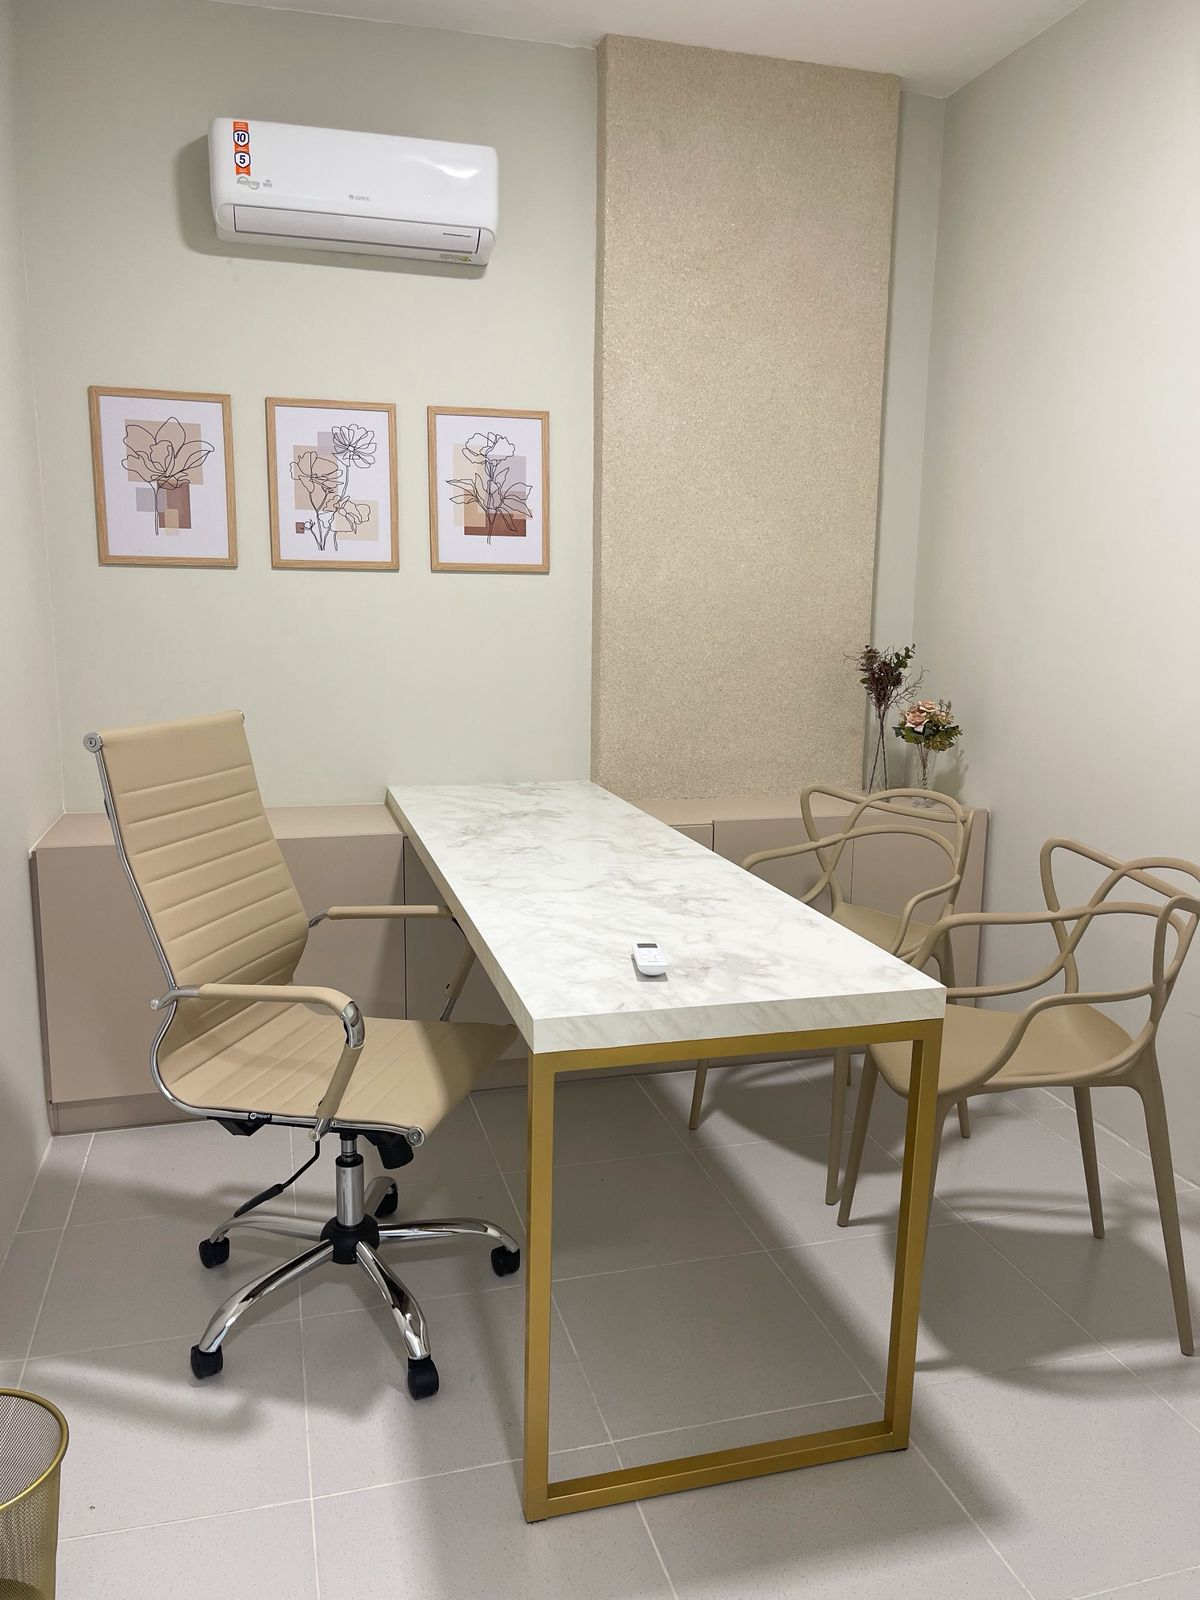
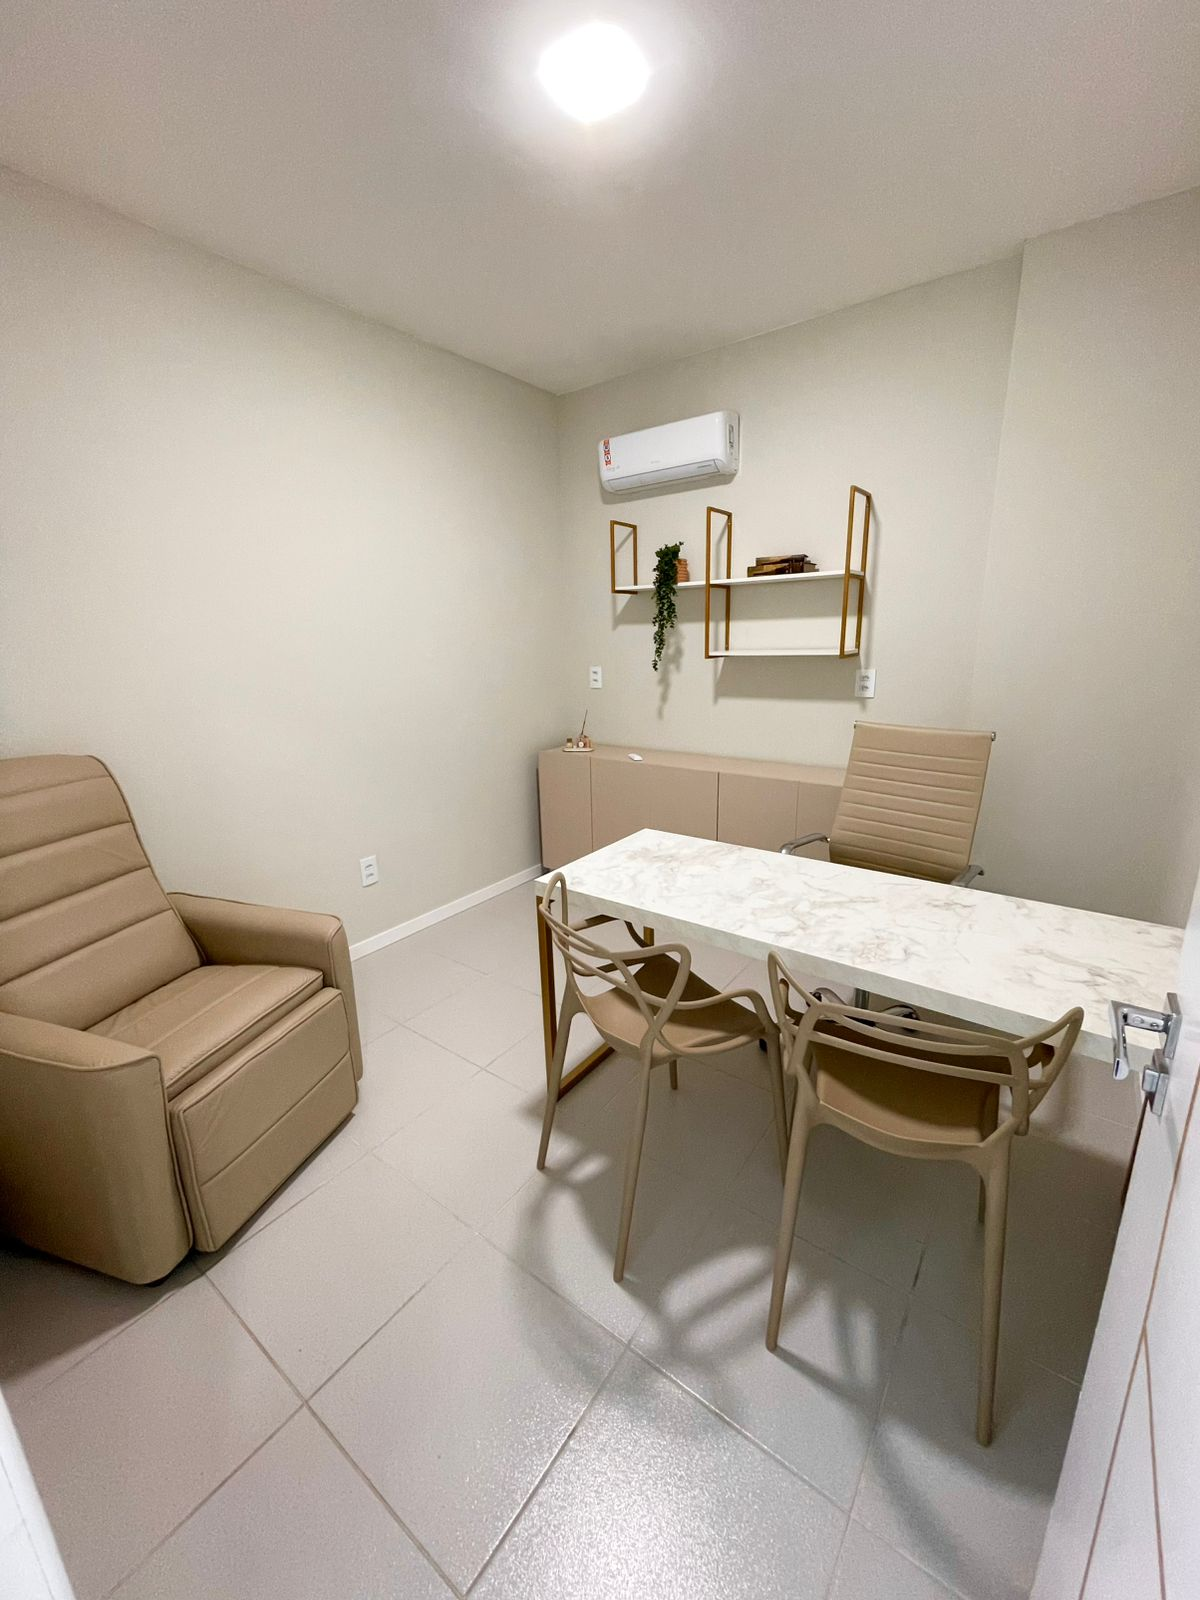
feat(site): rename coworking-space page to espaco-salto-alto
Replace coworking-space view with espaco-salto-alto, add redirect from old URL, update header nav label, and refresh related images.

diff --git a/views/site/espaco-salto-alto.php b/views/site/espaco-salto-alto.php
@@ -1,7 +1,7 @@
 <!DOCTYPE html>
 <html lang="pt-BR">
 	<head>
-		<title>Coworking Space | Canal Salto Alto</title>
+		<title>Espaço Salto Alto | Canal Salto Alto</title>
 		<meta charset="utf-8">
     	<meta name="viewport" content="width=device-width, initial-scale=1, shrink-to-fit=no">
 		<link rel="stylesheet" href="<?=PATH?>assets/css/styles.css?<?=uniqid()?>" />
@@ -16,20 +16,15 @@
 			<div class="container-xl">
 				<div class="row align-items-center">
 					<div class="col-md-6">
-						<h1 class="mb-4" style="font-weight: bold">Coworking Space em Linhares para Mulheres Empreendedoras</h1>
-						<p>Está à procura de um Coworking Space em Linhares, ES, que atenda às suas necessidades como mulher empreendedora? O Canal Salto Alto oferece <strong>a melhor opção para você!</strong></p>
+						<h1 class="mb-4" style="font-weight: bold">Espaço integrado em Linhares para Mulheres Empreendedoras</h1>
+						<p>Está à procura de uma sala para alugar em Linhares, ES, que atenda às suas necessidades como mulher empreendedora? O Canal Salto Alto oferece <strong>a melhor opção para você!</strong></p>
 						<p>Somos a comunidade de empreendedoras mais completa e inovadora do Espírito Santo, e agora temos um espaço colaborativo <strong>no coração do bairro Três Barras</strong>, um dos mais desejados de Linhares.</p>
 						<p style="color: #E54C8E;" class="d-flex flex-column align-items-start">
 							<span class="mb-3" style="
 							padding: 5px 10px;
 							border: solid 1px #E54C8E;
 							border-radius: 100px;
-						"><i class="fa-solid fa-tag"></i> Planos Flexíveis a partir de R$ 50,00 e Planos Fixos a partir de R$ 630,00</span>
-							<span style="
-							padding: 5px 10px;
-							border: solid 1px #E54C8E;
-							border-radius: 100px;
-						"><i class="fa-solid fa-ticket"></i> Empreendedoras membros tem 10% de Desconto!</span>
+						"><i class="fa-solid fa-tag"></i> Planos a partir de R$ 110,00 e Planos Mensais a partir de R$ 400,00</span>
 						</p>
 						<a href="https://api.whatsapp.com/send?phone=5527996959895&text=Ol%C3%A1,%20vim%20pelo%20site" target="_blank"><button class="btn btn-rose-light btn-rounded"><i class="fa-brands fa-whatsapp me-2"></i> Fale no WhatsApp</button></a>
 					</div>
@@ -44,8 +39,8 @@
 			<div class="container-xl">
 				<div class="text-center">
 					<p><span style="color: var(--primary-color)">SALAS COMERCIAIS EM LINHARES</span></p>
-					<h2>O Que o Coworking Space do Canal Salto Alto Oferece?</h2>
-					<p style="width: 100%;max-width: 700px;margin:0 auto; color: #888;" class="">Nosso coworking foi pensado especialmente para atender empreendedoras que precisam de um ambiente profissional, acolhedor e funcional.</p>
+					<h2>O Que o Espaço Integrado do Canal Salto Alto Oferece?</h2>
+					<p style="width: 100%;max-width: 700px;margin:0 auto; color: #888;" class="">Nosso espaço integrado foi pensado especialmente para atender empreendedoras que precisam de um ambiente profissional, acolhedor e funcional.</p>
 
 
 					<div class="row text-start mt-5">
@@ -111,107 +106,136 @@
 			<div class="container-xl text-center">
 				<h2>Nossos Planos</h2>
 				<p style="margin: 0 auto;max-width: 100%; width: 600px; color: #888">Escolha o plano que melhor se adapta às suas necessidades e comece a trabalhar no ambiente perfeito para empreendedoras.</p>
-				<p style="margin: 0 auto;max-width: 100%; width: 600px; color: #888;font-style: italic;">OUTROS TIPOS DE PLANOS SÃO NEGOCIADOS INDIVIDUALMENTE.</p>
+				
 				<div class="mt-5">
-					<h3 class="fs-3 font-weight-bold mb-4">Planos Flexíveis</h3>
+					<h3 class="fs-3 font-weight-bold mb-2">Planos Período da Manhã</h3>
+					<p class="mb-4" style="color: #888;">(8h às 11h30)</p>
 					<div class="row g-3 mb-5 justify-content-center">
-						<div class="col-12 col-md-3">
-							<div class="mb-4 bg-light p-4 box-gradient-gray h-100">
-								<h4 class="color-secondary fs-5"><strong style="font-weight: 900;">1 HORA</strong></h4>
-								<p><span class="fs-3 color-primary fw-bold">R$ 50,00</span> <small style="color:#888;display:block">para membros</small></p>
-								<p><span class="fs-5 color-secondary">R$ 55,00</span> <small style="color:#888;display:block">para não membros</small></p>
+						<div class="col-12 col-md">
+							<div class="mb-4 bg-light p-4 box-gradient-gray h-100 rounded shadow-sm">
+								<h4 class="color-secondary fs-6"><strong style="font-weight: 900;">PLANO 1</strong></h4>
+								<p class="mb-1"><small>1 dia por semana</small></p>
+								<p><span class="fs-4 color-primary fw-bold">R$ 400,00</span> <small style="color:#888;display:block">mensais</small></p>
+								<p><small class="color-primary">~4 atendimentos</small></p>
 							</div>
 						</div>
-						<div class="col-12 col-md-3">
-							<div class="mb-4 bg-light p-4 box-gradient-gray h-100">
-								<h4 class="color-secondary fs-5"><strong style="font-weight: 900;">MEIO PERÍODO</strong></h4>
-								<p class="text-center" style="color: #888"><small>(5 horas corridas)</small></p>
-								<p><span class="fs-3 color-primary fw-bold">R$ 108,00</span> <small style="color:#888;display:block">para membros</small></p>
-								<p><span class="fs-5 color-secondary">R$ 120,00</span> <small style="color:#888;display:block">para não membros</small></p>
+						<div class="col-12 col-md">
+							<div class="mb-4 bg-light p-4 box-gradient-gray h-100 rounded shadow-sm">
+								<h4 class="color-secondary fs-6"><strong style="font-weight: 900;">PLANO 2</strong></h4>
+								<p class="mb-1"><small>2 dias por semana</small></p>
+								<p><span class="fs-4 color-primary fw-bold">R$ 600,00</span> <small style="color:#888;display:block">mensais</small></p>
+								<p><small class="color-primary">~8 atendimentos</small></p>
 							</div>
 						</div>
-						<div class="col-12 col-md-3">
-							<div class="mb-4 bg-light p-4 box-gradient-gray h-100">
-								<div style="margin-top: -40px;margin-bottom: 10px">
-									<div class="bg-primary  text-white px-4 py-1 rounded-full text-sm font-semibold gap-1" style="border-radius: 200px;display: inline-flex;align-items: center;justify-content: center;">
-										<svg xmlns="http://www.w3.org/2000/svg" width="24" height="24" viewBox="0 0 24 24" fill="none" stroke="currentColor" stroke-width="2" stroke-linecap="round" stroke-linejoin="round" class="lucide lucide-star w-4 h-4" data-lov-id="src/components/Pricing.tsx:87:22" data-lov-name="Star" data-component-path="src/components/Pricing.tsx" data-component-line="87" data-component-file="Pricing.tsx" data-component-name="Star" data-component-content="%7B%22className%22%3A%22w-4%20h-4%22%7D"><path d="M11.525 2.295a.53.53 0 0 1 .95 0l2.31 4.679a2.123 2.123 0 0 0 1.595 1.16l5.166.756a.53.53 0 0 1 .294.904l-3.736 3.638a2.123 2.123 0 0 0-.611 1.878l.882 5.14a.53.53 0 0 1-.771.56l-4.618-2.428a2.122 2.122 0 0 0-1.973 0L6.396 21.01a.53.53 0 0 1-.77-.56l.881-5.139a2.122 2.122 0 0 0-.611-1.879L2.16 9.795a.53.53 0 0 1 .294-.906l5.165-.755a2.122 2.122 0 0 0 1.597-1.16z"></path></svg>
-										Mais Popular
-									</div>
-								</div>
-								<h4 class="color-secondary fs-5"><strong style="font-weight: 900;">DIÁRIA</strong></h4>
-								<p class="text-center" style="color: #888"><small>(10 horas corridas)</small></p>
-								
-								<p><span class="fs-3 color-primary fw-bold">R$ 180,00</span> <small style="color:#888;display:block">para membros</small></p>
-								<p><span class="fs-5 color-secondary">R$ 200,00</span> <small style="color:#888;display:block">para não membros</small></p>
+						<div class="col-12 col-md">
+							<div class="mb-4 bg-light p-4 box-gradient-gray h-100 rounded shadow-sm">
+								<h4 class="color-secondary fs-6"><strong style="font-weight: 900;">PLANO 3</strong></h4>
+								<p class="mb-1"><small>3 dias por semana</small></p>
+								<p><span class="fs-4 color-primary fw-bold">R$ 800,00</span> <small style="color:#888;display:block">mensais</small></p>
+								<p><small class="color-primary">~12 atendimentos</small></p>
 							</div>
 						</div>
-						<div class="col-12 col-md-3">
-							<div class="mb-4 bg-light p-4 box-gradient-gray h-100">
-								<h4 class="color-secondary fs-5"><strong style="font-weight: 900;">SÁBADO</strong></h4>
-								<p class="text-center" style="color: #888"><small>(Pacote de 4 horas corridas)</small></p>
-								<p><span class="fs-3 color-primary fw-bold">R$ 108,00</span> <small style="color:#888;display:block">para membros</small></p>
-								<p><span class="fs-5 color-secondary">R$ 120,00</span> <small style="color:#888;display:block">para não membros</small></p>
+						<div class="col-12 col-md">
+							<div class="mb-4 bg-light p-4 box-gradient-gray h-100 rounded shadow-sm">
+								<h4 class="color-secondary fs-6"><strong style="font-weight: 900;">PLANO 4</strong></h4>
+								<p class="mb-1"><small>4 dias por semana</small></p>
+								<p><span class="fs-4 color-primary fw-bold">R$ 1.000,00</span> <small style="color:#888;display:block">mensais</small></p>
+								<p><small class="color-primary">~16 atendimentos</small></p>
 							</div>
 						</div>
-						<p class="mt-3"><a href="https://api.whatsapp.com/send?phone=5527996959895&text=Ol%C3%A1,%20vim%20pelo%20site" target="_blank"><button class="btn btn-rose-light btn-rounded"><i class="fa-brands fa-whatsapp me-2"></i> Fale com a gente no WhatsApp</button></a></p>
+						<div class="col-12 col-md">
+							<div class="mb-4 bg-light p-4 box-gradient-gray h-100 rounded shadow-sm border border-primary">
+								<h4 class="color-secondary fs-6"><strong style="font-weight: 900;">PLANO 5</strong></h4>
+								<p class="mb-1"><small>5 dias por semana</small></p>
+								<p><span class="fs-4 color-primary fw-bold">R$ 1.200,00</span> <small style="color:#888;display:block">mensais</small></p>
+								<p><small class="color-primary">~20 atendimentos</small></p>
+								<hr>
+								<p class="mb-0"><small><strong>SALA EXCLUSIVA PELA MANHÃ</strong></small></p>
+								<p><small>Tenha uma sala para chamar de sua!</small></p>
+							</div>
+						</div>
 					</div>
 				</div>
 
-				<div>
-					<h3 class="fs-3">Planos Fixos</h3>
-					<p style="color: #888;">(Contrato mínimo de 6 meses)</p>
-					<div class="row g-3 justify-content-center">
-						<div class="col-md-4">
-							<div class="mb-4 rounded shadow-sm p-4 box-gradient-gray h-100">
-								<h4 class="color-secondary fs-5"><strong style="font-weight: 900;">PLANO 1</strong></h4>
-								<p><span class="fs-3 color-primary fw-bold">R$ 630,00</span> <small style="color:#888;display:block">para membros</small></p>
-								<p><span class="fs-5 color-secondary">R$ 700,00</span> <small style="color:#888;display:block">para não membros</small></p>
-								<p><small>1 dia por semana ou 2 meios períodos por semana</small></p>
-								<p><small class="color-primary">~40h/mês</small></p>
+				<div class="mt-5">
+					<h3 class="fs-3 font-weight-bold mb-2">Planos Período da Tarde</h3>
+					<p class="mb-4" style="color: #888;">(13h às 18h)</p>
+					<div class="row g-3 mb-5 justify-content-center">
+						<div class="col-12 col-md">
+							<div class="mb-4 bg-light p-4 box-gradient-gray h-100 rounded shadow-sm">
+								<h4 class="color-secondary fs-6"><strong style="font-weight: 900;">PLANO 1</strong></h4>
+								<p class="mb-1"><small>1 dia por semana</small></p>
+								<p><span class="fs-4 color-primary fw-bold">R$ 450,00</span> <small style="color:#888;display:block">mensais</small></p>
+								<p><small class="color-primary">~4 atendimentos</small></p>
 							</div>
 						</div>
-						<div class="col-md-4">
-							<div class="mb-4 rounded shadow-sm p-4 box-gradient-gray h-100">
-								<h4 class="color-secondary fs-5"><strong style="font-weight: 900;">PLANO 2</strong></h4>
-								<p><span class="fs-3 color-primary fw-bold">R$ 1.080,00</span> <small style="color:#888;display:block">para membros</small></p>
-								<p><span class="fs-5 color-secondary">R$ 1.200,00</span> <small style="color:#888;display:block">para não membros</small></p>
-								<p><small>2 dias por semana</small></p>
-								<p><small class="color-primary">~80h/mês</small></p>
+						<div class="col-12 col-md">
+							<div class="mb-4 bg-light p-4 box-gradient-gray h-100 rounded shadow-sm">
+								<h4 class="color-secondary fs-6"><strong style="font-weight: 900;">PLANO 2</strong></h4>
+								<p class="mb-1"><small>2 dias por semana</small></p>
+								<p><span class="fs-4 color-primary fw-bold">R$ 750,00</span> <small style="color:#888;display:block">mensais</small></p>
+								<p><small class="color-primary">~8 atendimentos</small></p>
 							</div>
 						</div>
-						<div class="col-md-4">
-							<div class="mb-4 rounded shadow-sm p-4 box-gradient-gray h-100">
-								<h4 class="color-secondary fs-5"><strong style="font-weight: 900;">PLANO 3</strong></h4>
-								<p><span class="fs-3 color-primary fw-bold">R$ 1.350,00</span> <small style="color:#888;display:block">para membros</small></p>
-								<p><span class="fs-5 color-secondary">R$ 1.500,00</span> <small style="color:#888;display:block">para não membros</small></p>
-								<p><small>3 dias por semana</small></p>
-								<p><small class="color-primary">~120h/mês</small></p>
+						<div class="col-12 col-md">
+							<div class="mb-4 bg-light p-4 box-gradient-gray h-100 rounded shadow-sm">
+								<h4 class="color-secondary fs-6"><strong style="font-weight: 900;">PLANO 3</strong></h4>
+								<p class="mb-1"><small>3 dias por semana</small></p>
+								<p><span class="fs-4 color-primary fw-bold">R$ 1.100,00</span> <small style="color:#888;display:block">mensais</small></p>
+								<p><small class="color-primary">~12 atendimentos</small></p>
 							</div>
 						</div>
-						
-						<!-- <div class="col-md-6">
-							<div class="mb-4 rounded shadow-sm p-4 box-gradient-gray h-100">
-								<h4 class="color-secondary fs-5"><strong style="font-weight: 900;">PLANO 4</strong></h4>
-								<p><span class="fs-3 color-primary fw-bold">R$ 1.080,00</span> <small style="color:#888;display:block">para membros</small></p>
-								<p><span class="fs-5 color-secondary">R$ 1.200,00</span> <small style="color:#888;display:block">para não membros</small></p>
-								<p><small>4 dias por semana</small></p>
-								<p><small class="color-primary">~160/mês</small></p>
+						<div class="col-12 col-md">
+							<div class="mb-4 bg-light p-4 box-gradient-gray h-100 rounded shadow-sm">
+								<h4 class="color-secondary fs-6"><strong style="font-weight: 900;">PLANO 4</strong></h4>
+								<p class="mb-1"><small>4 dias por semana</small></p>
+								<p><span class="fs-4 color-primary fw-bold">R$ 1.450,00</span> <small style="color:#888;display:block">mensais</small></p>
+								<p><small class="color-primary">~16 atendimentos</small></p>
 							</div>
 						</div>
-						
-						<div class="col-md-6">
-							<div class="mb-4 rounded shadow-sm p-4 box-gradient-gray h-100">
-								<h4 class="color-secondary fs-5"><strong style="font-weight: 900;">PLANO 5</strong></h4>
-								<p><span class="fs-3 color-primary fw-bold">R$ 1.350,00</span> <small style="color:#888;display:block">para membros</small></p>
-								<p><span class="fs-5 color-secondary">R$ 1.500,00</span> <small style="color:#888;display:block">para não membros</small></p>
-								<p><small>5 dias por semana</small></p>
-								<p><small class="color-primary">~200/mês</small></p>
+						<div class="col-12 col-md">
+							<div class="mb-4 bg-light p-4 box-gradient-gray h-100 rounded shadow-sm border border-primary">
+								<h4 class="color-secondary fs-6"><strong style="font-weight: 900;">PLANO 5</strong></h4>
+								<p class="mb-1"><small>5 dias por semana</small></p>
+								<p><span class="fs-4 color-primary fw-bold">R$ 1.750,00</span> <small style="color:#888;display:block">mensais</small></p>
+								<p><small class="color-primary">~20 atendimentos</small></p>
+								<hr>
+								<p class="mb-0"><small><strong>SALA EXCLUSIVA À TARDE</strong></small></p>
+								<p><small>Tenha uma sala para chamar de sua!</small></p>
 							</div>
-						</div> -->
+						</div>
 					</div>
+				</div>
 
-					<p class="mt-4"><a href="https://api.whatsapp.com/send?phone=5527996959895&text=Ol%C3%A1,%20vim%20pelo%20site" target="_blank"><button class="btn btn-rose-light btn-rounded"><i class="fa-brands fa-whatsapp me-2"></i> Fale com a gente no WhatsApp</button></a></p>
-
+				<div class="mt-5">
+					<h3 class="fs-3 font-weight-bold mb-4">Planos Avulsos</h3>
+					<div class="row g-3 mb-5 justify-content-center">
+						<div class="col-12 col-md-4">
+							<div class="mb-4 bg-light p-4 box-gradient-gray h-100 rounded shadow-sm">
+								<h4 class="color-secondary fs-5"><strong style="font-weight: 900;">MEIO PERÍODO MANHÃ</strong></h4>
+								<p class="mb-1" style="color: #888"><small>(8h às 11h30)</small></p>
+								<p><span class="fs-3 color-primary fw-bold">R$ 110,00</span></p>
+							</div>
+						</div>
+						<div class="col-12 col-md-4">
+							<div class="mb-4 bg-light p-4 box-gradient-gray h-100 rounded shadow-sm">
+								<h4 class="color-secondary fs-5"><strong style="font-weight: 900;">MEIO PERÍODO TARDE</strong></h4>
+								<p class="mb-1" style="color: #888"><small>(13h às 18h)</small></p>
+								<p><span class="fs-3 color-primary fw-bold">R$ 120,00</span></p>
+							</div>
+						</div>
+						<div class="col-12 col-md-4">
+							<div class="mb-4 bg-light p-4 box-gradient-gray h-100 rounded shadow-sm">
+								<h4 class="color-secondary fs-5"><strong style="font-weight: 900;">DIÁRIA</strong></h4>
+								<p class="mb-1" style="color: #888"><small>(8h às 18h com intervalo de 11h30 às 13h)</small></p>
+								<p><span class="fs-3 color-primary fw-bold">R$ 200,00</span></p>
+							</div>
+						</div>
+					</div>
+					<p class="mt-3"><a href="https://api.whatsapp.com/send?phone=5527996959895&text=Ol%C3%A1,%20vim%20pelo%20site" target="_blank"><button class="btn btn-rose-light btn-rounded"><i class="fa-brands fa-whatsapp me-2"></i> Fale com a gente no WhatsApp</button></a></p>
+				</div>
+				
+				<div class="mt-5">
 					<p class="mt-4"><em>Pagamentos em cartão de crédito terão acréscimo de taxa (favor consultar)</em></p>
 					<p><em>Não há crédito de horas ou desconto em valores em caso de feriados no mês, os valores e horários são fixos.</em></p>
 				</div>
@@ -269,12 +293,12 @@
 						<h2>Regras</h2>
 						<ul>
 							<li><i class="fa-solid fa-check"></i> Quem não é empreendedora membro do Canal Salto Alto precisa fazer um cadastro com alguns dados pessoais que vamos solicitar;</li>
-							<li><i class="fa-solid fa-check"></i> Em caso de não realização do atendimento agendado nos PLANOS FLEXÍVEIS, o aviso deve ser feito com até 24h de antecedência em nosso whatsapp. Dessa forma você pode remarcar dentro de 7 dias ou ter 50% do investimento de volta;</li>
+							<li><i class="fa-solid fa-check"></i> Em caso de não realização do atendimento agendado nos <strong>PLANOS AVULSOS</strong>, o aviso deve ser feito com até 24h de antecedência em nosso whatsapp. Dessa forma você pode remarcar dentro de 7 dias ou ter 50% do investimento de volta;</li>
 							<li><i class="fa-solid fa-check"></i> Não devolvemos o valor total do investimento para atendimentos não realizados, conforme situação acima;</li>
 							<li><i class="fa-solid fa-check"></i> Não podemos ter atrasos no final do atendimento devido aos atendimentos seguintes, se ocorrer atrasos, após o tempo de 10 minutos será cobrada mais uma hora de uso do espaço;</li>
 							<li><i class="fa-solid fa-check"></i> Pagamentos realizados no cartão de crédito terão acréscimo da taxa do cartão. Favor consultar antes de realizar o agendamento;</li>
-							<li><i class="fa-solid fa-check"></i> Nos PLANOS FIXOS não há crédito de horas ou desconto em valores em caso de feriados no mês, os valores e horários são fixos;</li>
-							<li><i class="fa-solid fa-check"></i> Os PLANOS FIXOS precisam de contrato mínimo de 6 meses.</li>
+							<li><i class="fa-solid fa-check"></i> Nos <strong>PLANOS MENSAIS</strong> não há crédito de horas ou desconto em valores em caso de feriados no mês, os valores e horários são fixos;</li>
+							<li><i class="fa-solid fa-check"></i> Os <strong>PLANOS MENSAIS</strong> precisam de contrato mínimo de 6 meses.</li>
 						</ul>
 					</div>
 				</div>
@@ -310,7 +334,7 @@
 			<div class="container-xl">
 				<div class="row align-items-center justify-content-center">
 					<div class="col-md-8 text-center">
-						<h2>Por Que Escolher o Coworking Space do Canal Salto Alto?</h2>
+						<h2>Por Que Escolher o Espaço do Canal Salto Alto?</h2>
 						<p>Além de um espaço estruturado e estratégico em Linhares, você terá a oportunidade de:</p>
 
 						<ul>

diff --git a/routes/site.php b/routes/site.php
@@ -13,7 +13,10 @@
 
 
 	$router->get("/coworking-space", function(){
-		require "views/site/coworking-space.php";
+		header("Location: /espaco-salto-alto");
+	});
+	$router->get("/espaco-salto-alto", function(){
+		require "views/site/espaco-salto-alto.php";
 	});
 
 	$router->get("/noticias", function(){
